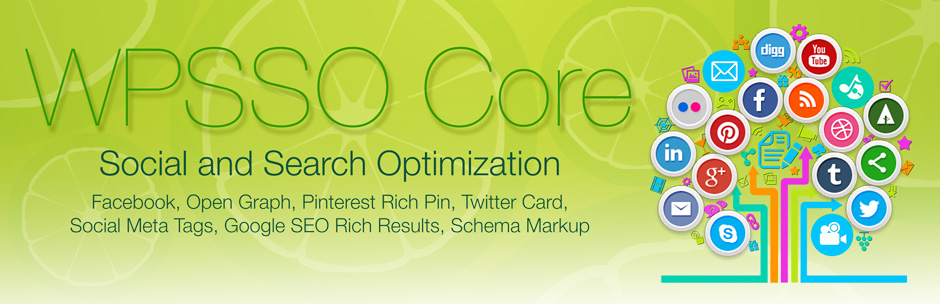
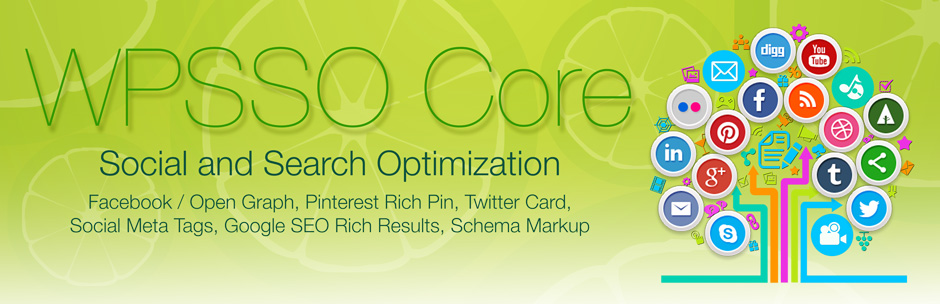
non-essential support files (documentation and assets)

Changed region(s): [[0.0926, 0.6217, 0.617, 0.7105]]

diff --git a/index.html b/index.html
@@ -25,7 +25,7 @@
         </ul>
       </header>
       <section>
-<h1>WPSSO Core</h1><h3>Facebook, Open Graph, Rich Pin, Twitter Card, Social Meta Tags, SEO Rich Results, Schema Markup</h3>
+<h1>WPSSO Core</h1><h3>Facebook / Open Graph, Rich Pin, Twitter Card, Social Meta, SEO Rich Results, Schema Markup</h3>
 
 <table>
 <tr><th align="right" valign="top" nowrap>Plugin Name</th><td>WPSSO Core [Main Plugin]</td></tr>
